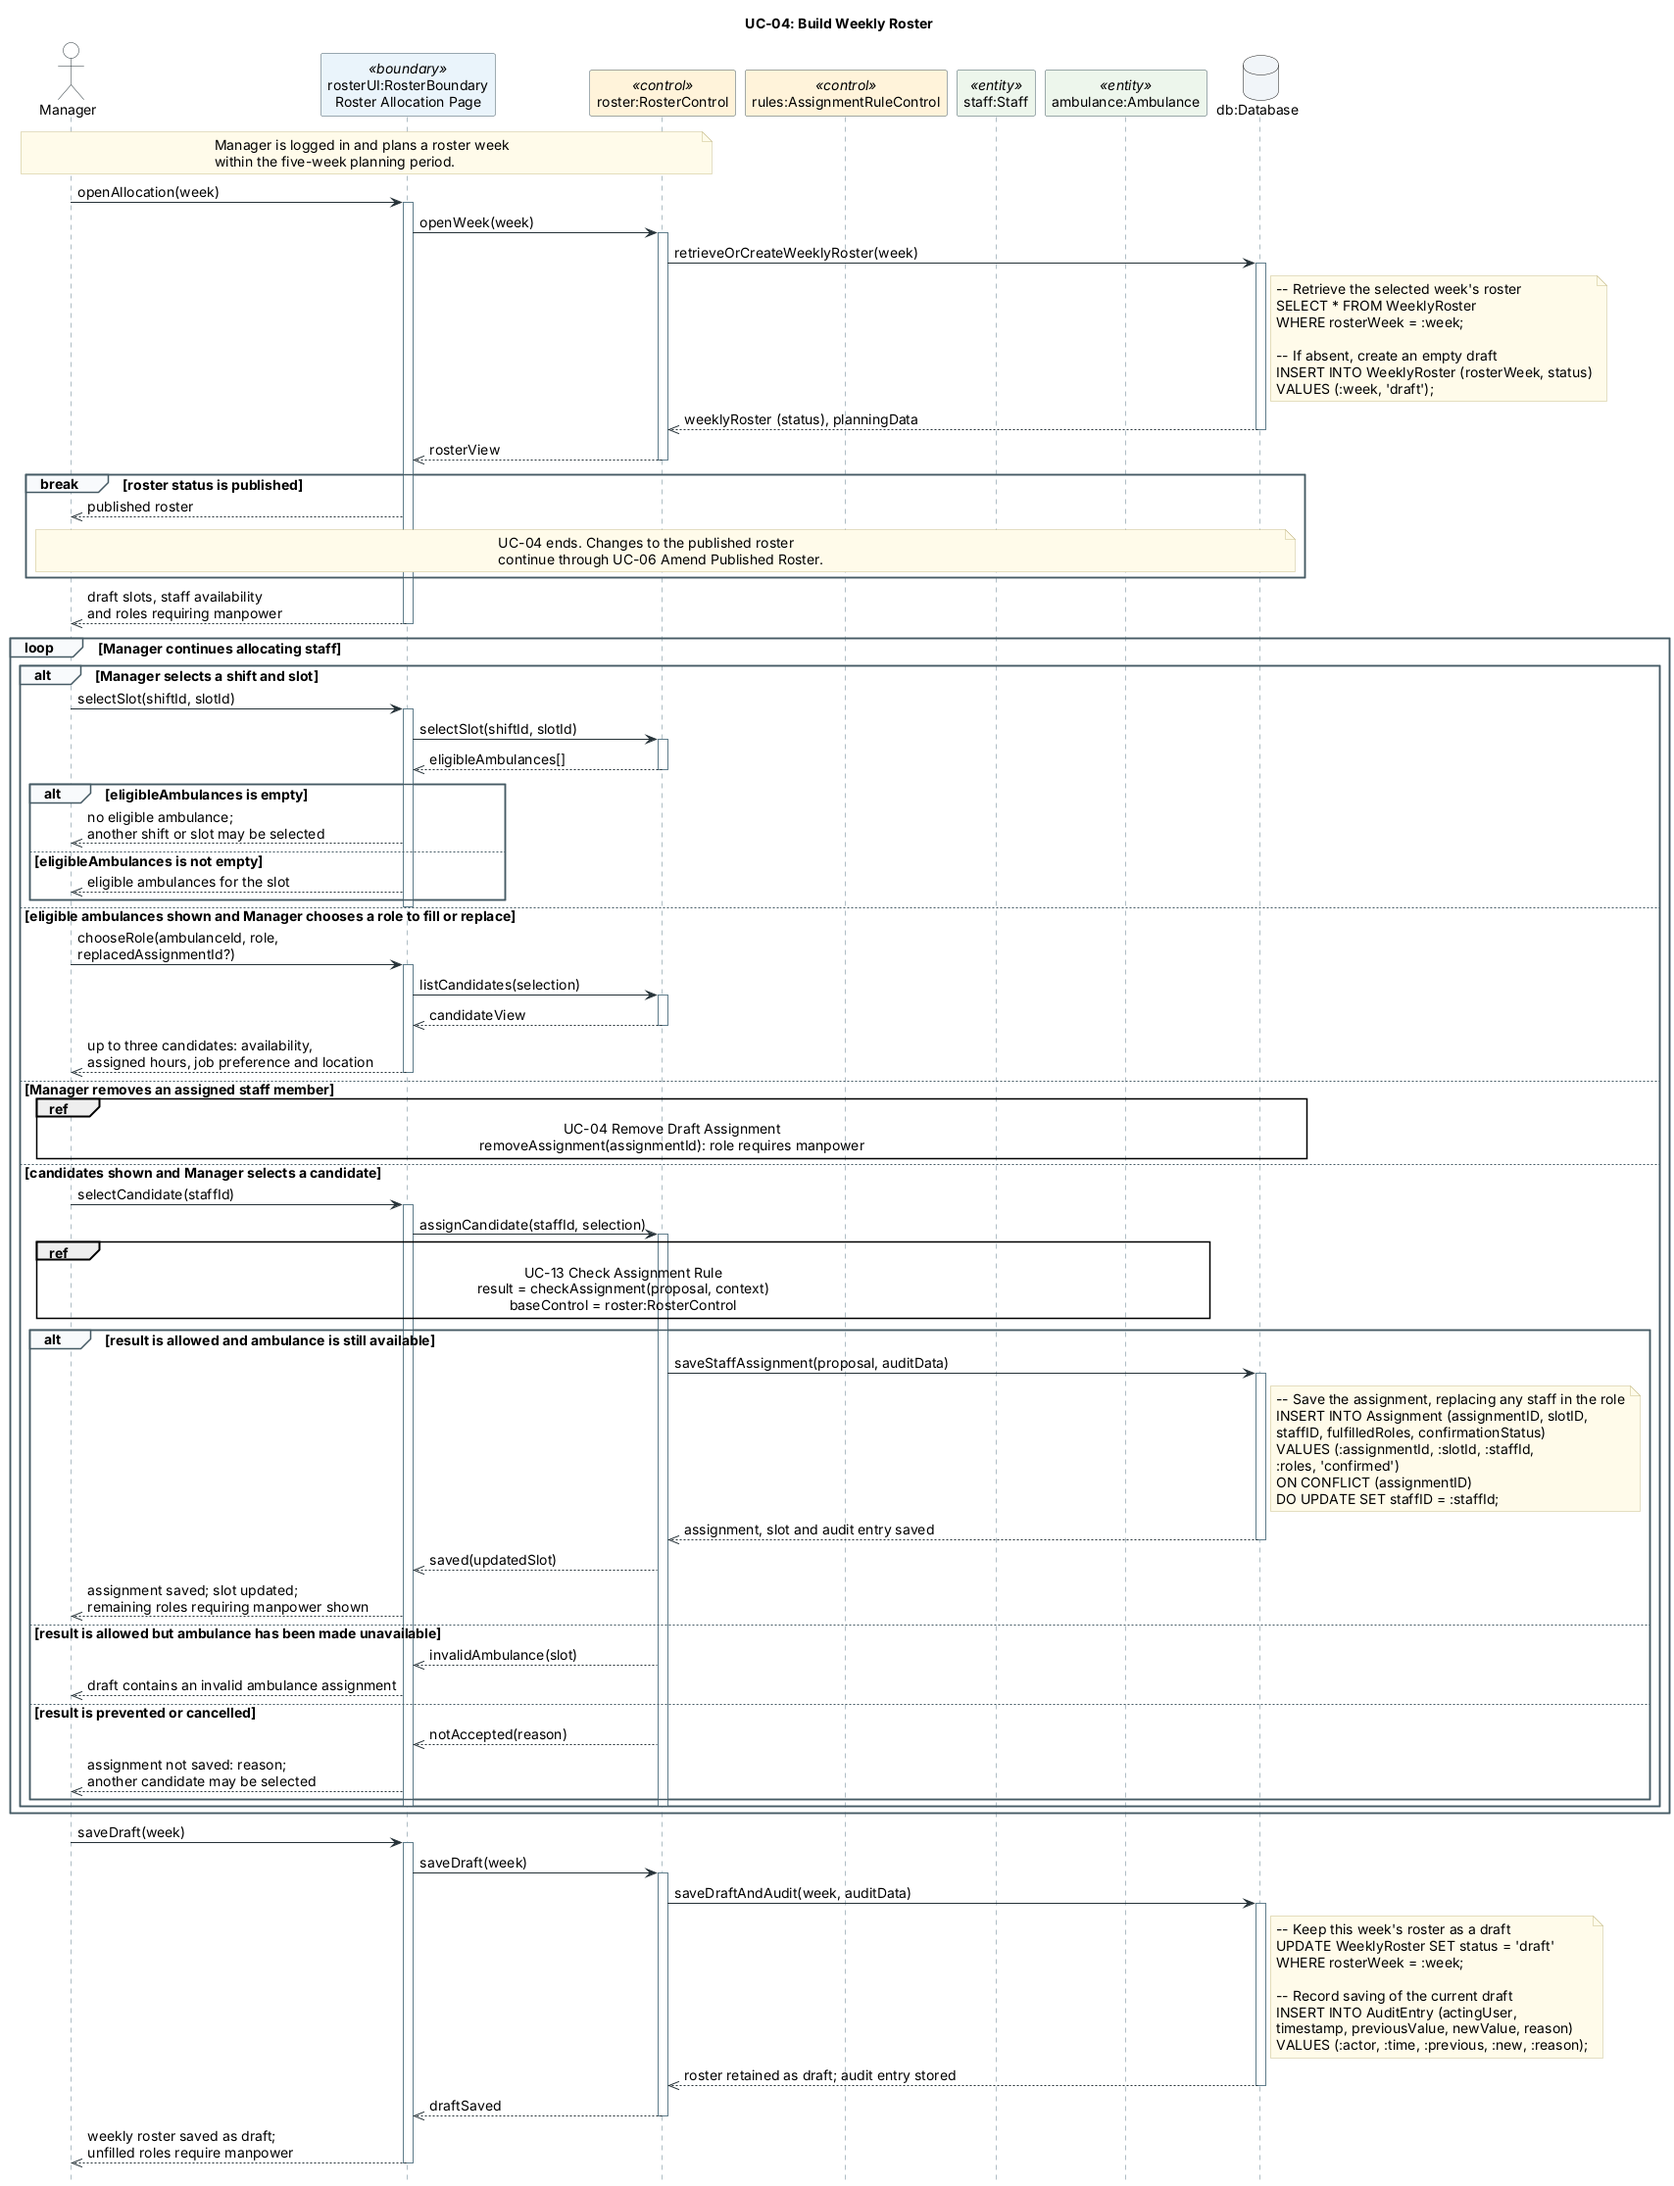
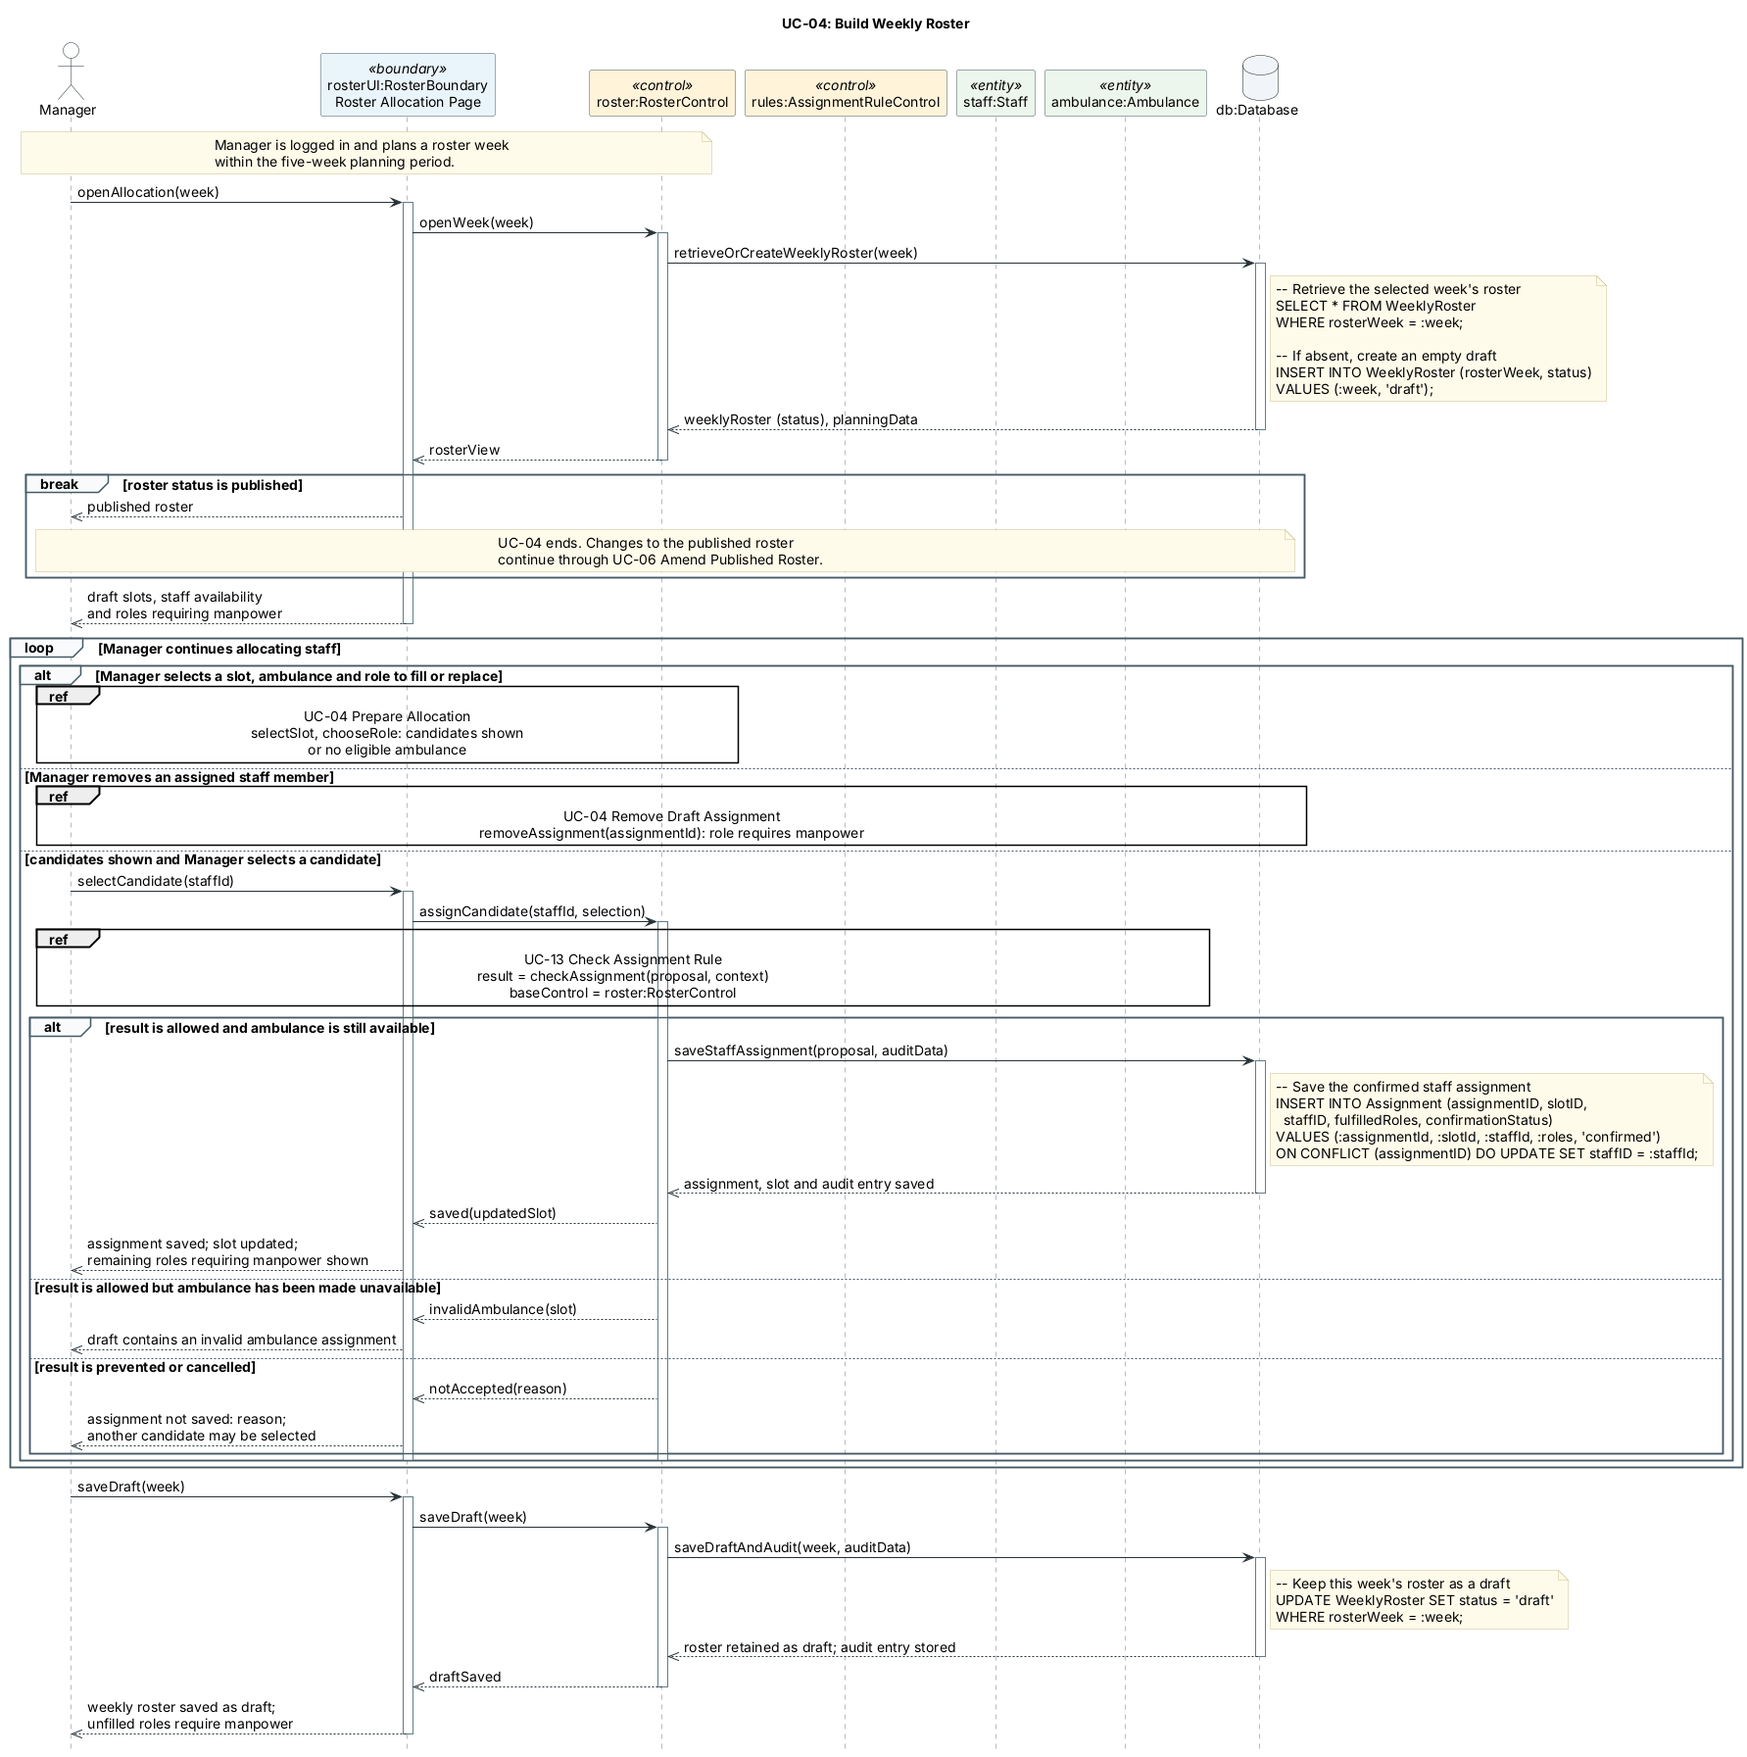
Shorten UC-04 main diagram by extracting Prepare Allocation interaction
Claude-Session: https://claude.ai/code/session_01MKko9MeoH778tftumrZ3go

diff --git a/sequence-diagrams/2026-10-07_23-40-00/README.md b/sequence-diagrams/2026-10-07_23-40-00/README.md
@@ -11,7 +11,8 @@ Both follow the AGENTS.md revision on main (`b723731`): short business-operation
 
 | Diagram | Messages | Max nesting | Deepest path |
 |---|---|---|---|
-| UC-04 Build Weekly Roster | 32 | 3 | loop → alt (Manager request) → alt (empty ambulances / UC-13 result) |
+| UC-04 Build Weekly Roster | 23 | 3 | loop → alt (Manager request) → alt (UC-13 result) |
+| UC-04 Prepare Allocation | 9 | 1 | break (no eligible ambulance) |
 | UC-04 Remove Draft Assignment | 6 | 0 | none |
 | UC-02 Manage Availability | 18 | 1 | loop (each submitted week); opt (late) |
 
@@ -19,23 +20,22 @@ Traced paths: UC-04 published (break ends the interaction before allocation and 
 
 ## UC-04 Build Weekly Roster
 
-**Scope:** main success scenario and alternatives 1a, 4a, 5a, 8a and 9a, across two diagrams. 1a is a top-level `break` at the decision point, so the allocation flow is not wrapped in a draft-only branch. Removal (5a1–5a2) is extracted to [UC-04 Remove Draft Assignment](uc-04-remove-assignment.svg) ([source](uc-04-remove-assignment.puml)), called through `ref` with `assignmentId` in and "role requires manpower" out. One allocation loop; each pass is one Manager request chosen from a flat `alt`. A request is only offered once its earlier step has been shown, so 4a cannot reach candidate allocation and 8a returns to the candidates already shown (step 6) on the next pass.
+**Scope:** main success scenario and alternatives 1a, 4a, 5a, 8a and 9a, across two diagrams. 1a is a top-level `break` at the decision point, so the allocation flow is not wrapped in a draft-only branch. Two coherent pieces are extracted and called through `ref`: [UC-04 Prepare Allocation](uc-04-prepare-allocation.svg) ([source](uc-04-prepare-allocation.puml)) for steps 3–6 with 4a and the replacement entry (5a1/5a3), ending with candidates shown or "no eligible ambulance"; and [UC-04 Remove Draft Assignment](uc-04-remove-assignment.svg) ([source](uc-04-remove-assignment.puml)) for 5a1–5a2. The main diagram keeps the loop, the UC-13 reference, every assignment outcome and the three core database operations. One allocation loop; each pass is one Manager request chosen from a flat `alt`. A request is only offered once its earlier step has been shown, so 4a cannot reach candidate allocation and 8a returns to the candidates already shown (step 6) on the next pass.
 
 | Visible database operation | Behaviour represented | SQL |
 |---|---|---|
 | `retrieveOrCreateWeeklyRoster(week)` | Read the week's roster, create an empty draft if absent, read planning data | WeeklyRoster SELECT / INSERT in side note; WeekPlanningView SELECT in source comment |
 | `removeStaffAssignment(assignmentId, auditData)` (5a, referenced diagram) | Delete the assignment and record the removal | DELETE and AuditEntry INSERT in side note |
 | `saveStaffAssignment(proposal, auditData)` | Store or replace the assignment, store the slot's ambulance, record the change | Assignment upsert in side note; RosterSlot upsert and AuditEntry INSERT in source comments |
-| `saveDraftAndAudit(week, auditData)` | Retain draft status and record the draft save | UPDATE and AuditEntry INSERT in side note |
+| `saveDraftAndAudit(week, auditData)` | Retain draft status and record the draft save | UPDATE in side note; AuditEntry INSERT in source comment |
 
-Supporting reads (eligible ambulances, candidates with assigned hours, rule context with the ambulance's current availability) are not drawn as round trips; their SQL is in source comments beside `selectSlot`, `listCandidates` and `assignCandidate`.
+Supporting reads (eligible ambulances, candidates with assigned hours, rule context with the ambulance's current availability) are not drawn as round trips; their SQL is in source comments beside `selectSlot` and `listCandidates` (Prepare Allocation) and `assignCandidate` (main diagram).
 
 | Source step | Diagram |
 |---|---|
 | 1–2 | `openAllocation`, `retrieveOrCreateWeeklyRoster` |
 | 1a | `break [roster status is published]`; use case ends |
-| 3–4, 4a | Loop operand "selects a shift and slot"; inner `alt` on empty result |
-| 5–6, 5a3 | Loop operand "chooses a role to fill or replace" |
+| 3–6, 4a, 5a3 | Loop operand "selects a slot, ambulance and role"; `ref` UC-04 Prepare Allocation (4a is a `break` inside it) |
 | 5a1–5a2 | Loop operand "removes an assigned staff member"; `ref` UC-04 Remove Draft Assignment |
 | 7–8 | Loop operand "selects a candidate"; `ref` UC-13 |
 | 9 / 9a / 8a | Inner `alt`: saved / invalid ambulance warning / not saved |
